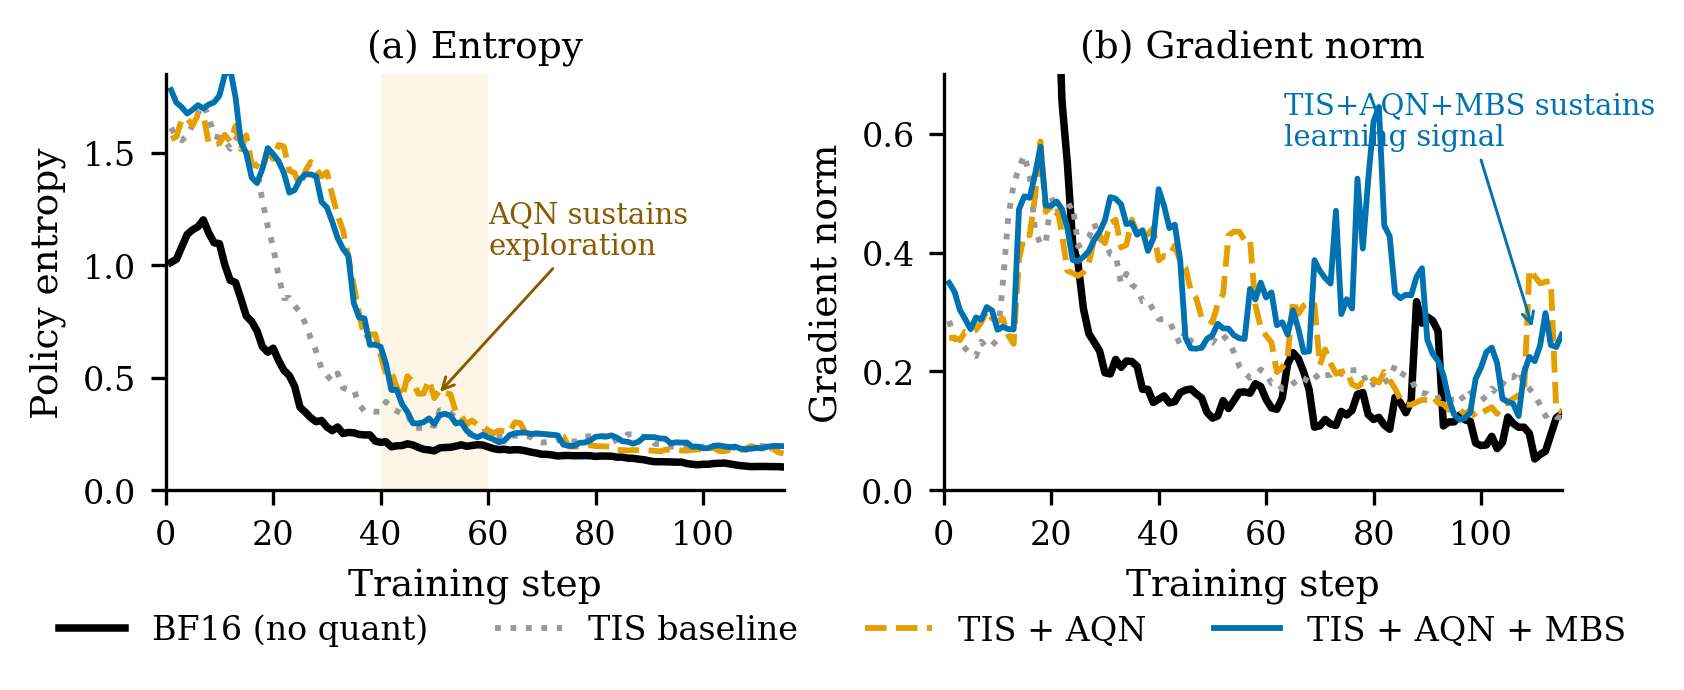
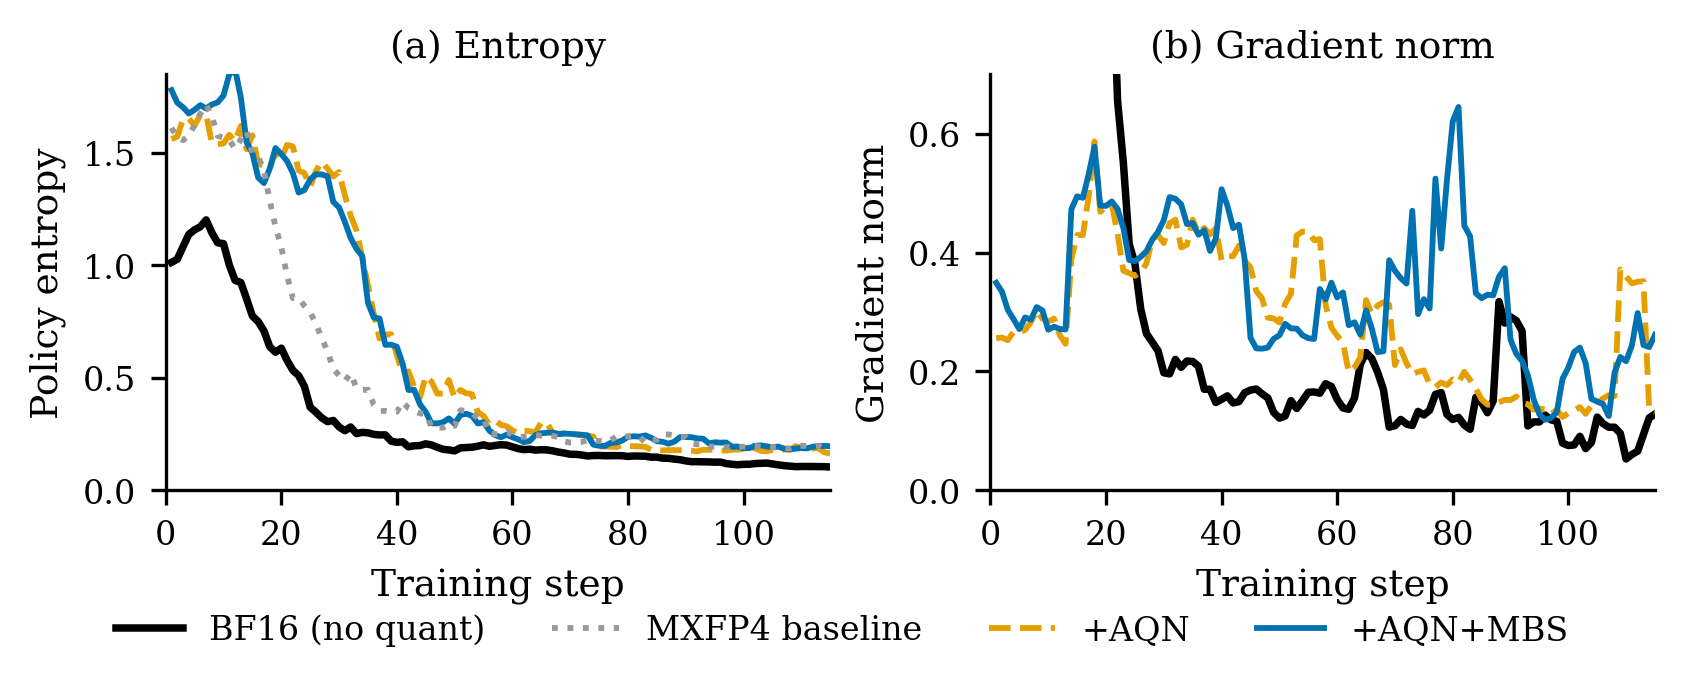
MXFP4 posts: add MXFP4 baseline to fig3 entropy panel; update bibtex author list
- fig3_training_dynamics.png regenerated: the MXFP4 baseline curve
  (gray dotted, "MXFP4 baseline") is restored on the entropy panel
  only -- it visualizes the premature-collapse pattern that
  +AQN and +AQN+MBS prevent. Gradient-norm panel unchanged.
- BibTeX author field in both English and Chinese posts updated to
  the full author list:
    Xiaocan Li and Shiliang Wu and Hei Yi Mak and Mehran Taghian
    and Yunke Peng and Zheng Shen

diff --git a/blog/content/posts/mxfp4-quantization-error-decomposition.md b/blog/content/posts/mxfp4-quantization-error-decomposition.md
@@ -249,7 +249,7 @@ If you find our work useful, please kindly cite our work:
 ```bibtex
 @misc{li2026decomposingmxfp4quantizationerror,
       title={Decomposing MXFP4 quantization error for LLM reinforcement learning: reducible bias, recoverable deadzone, and an irreducible floor}, 
-      author={Xiaocan Li and Shiliang Wu and Zheng Shen},
+      author={Xiaocan Li and Shiliang Wu and Hei Yi Mak and Mehran Taghian and Yunke Peng and Zheng Shen},
       year={2026},
       eprint={2605.20402},
       archivePrefix={arXiv},